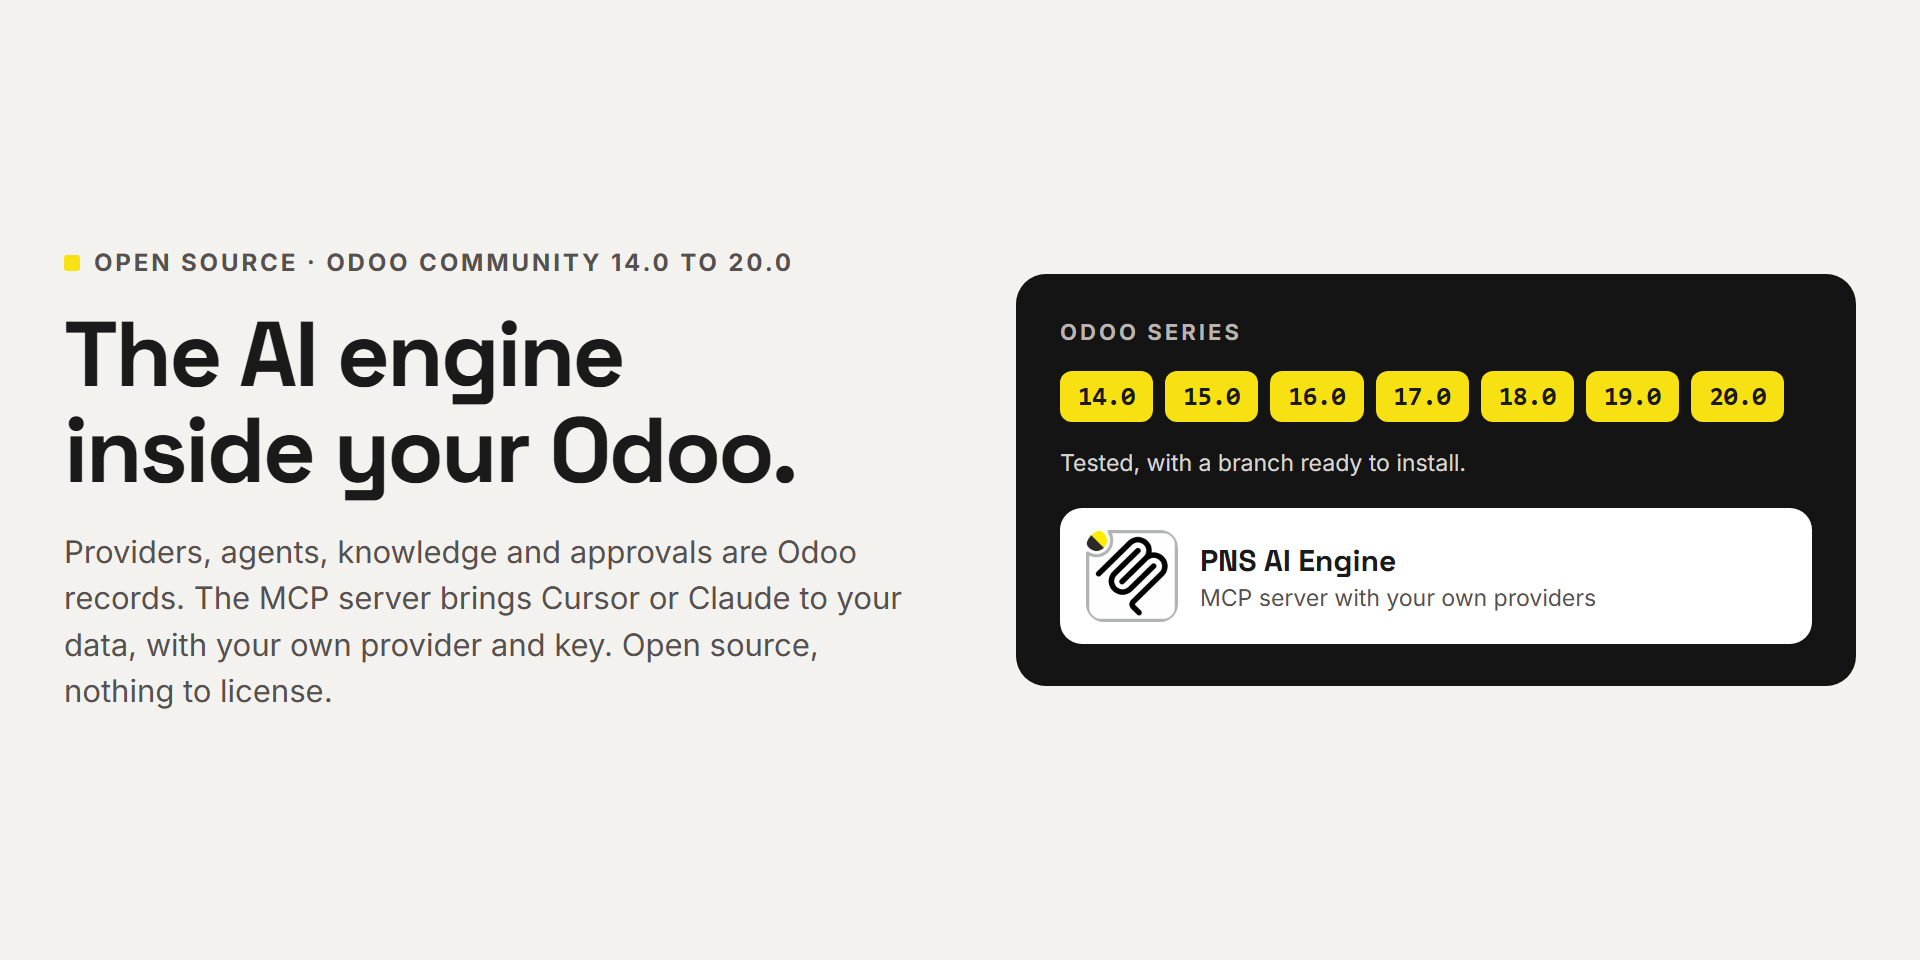
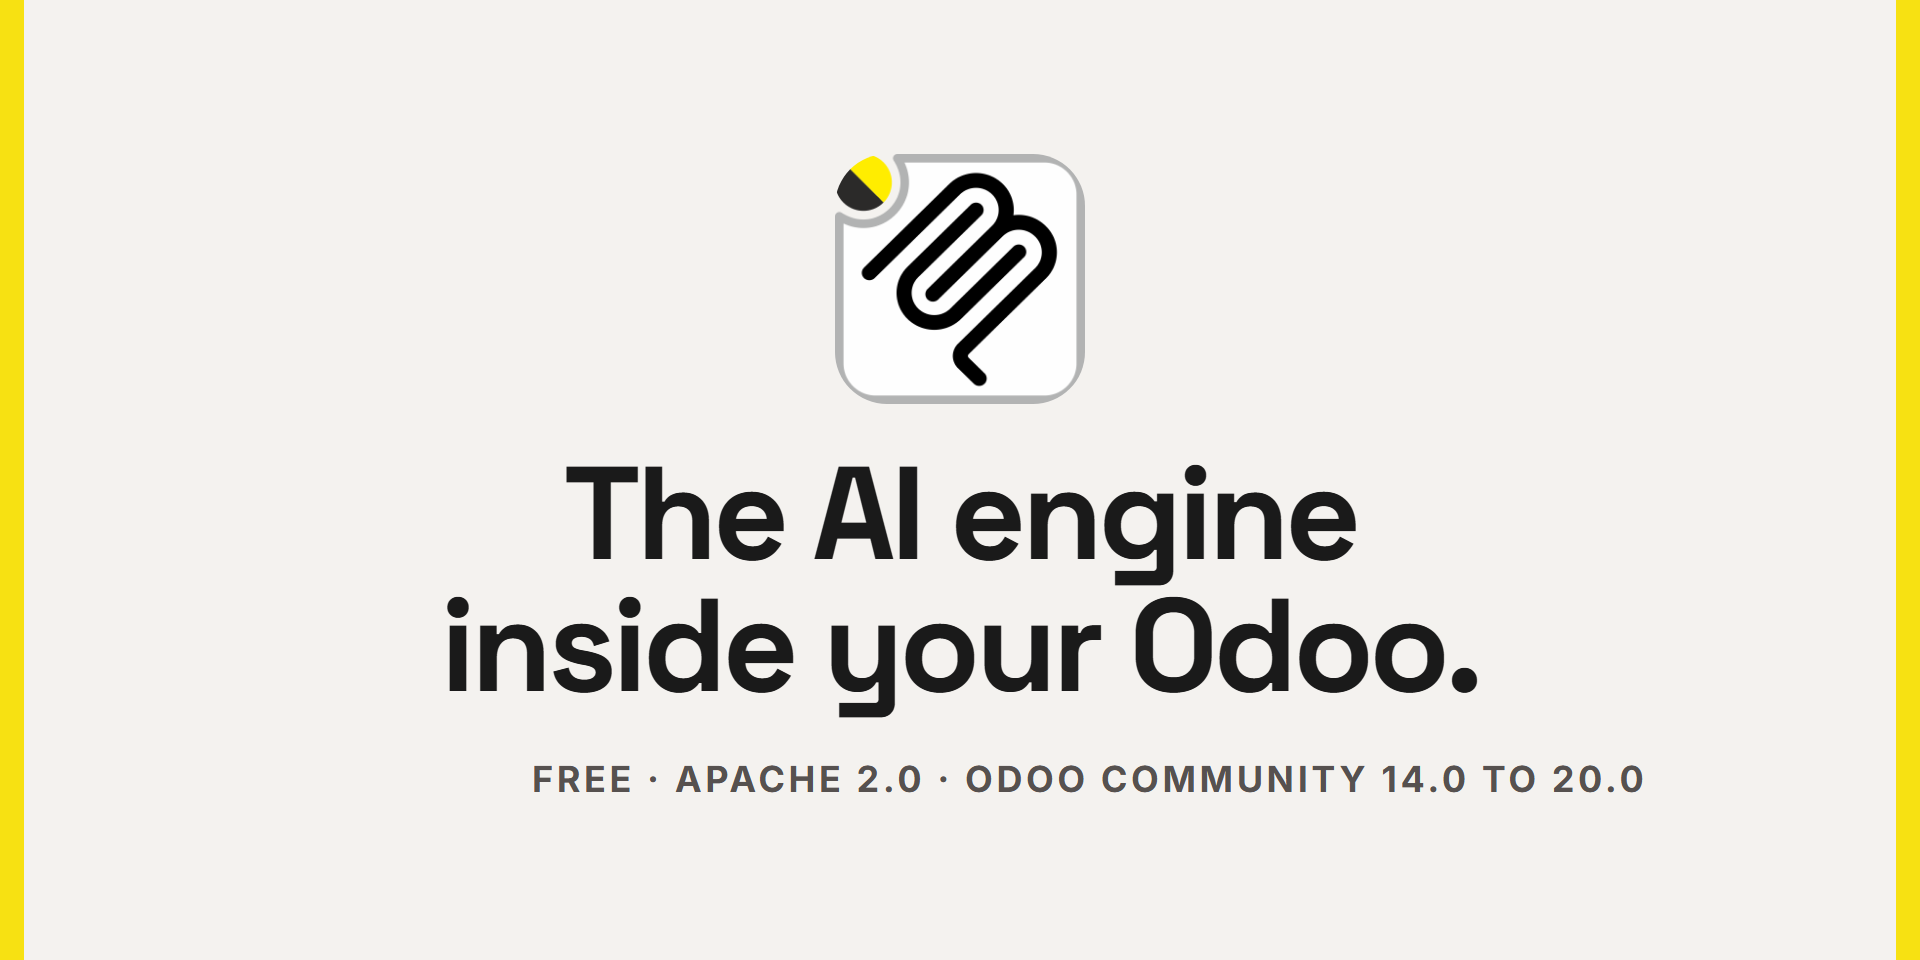
pns_ai_mcp owl1 3.1.980 · owl2 3.1.980 · owl3 3.1.980
Store listing only; the module code is the one of 3.1.979.

- The module is now named "PNS AI Engine — MCP Server", so the Odoo Apps card says what it is next to the other MCP servers.
- New Odoo Apps cover: icon, headline and one line of facts (free, Apache 2.0, Odoo Community 14.0 to 20.0). The previous cover carried a paragraph and the series chips, unreadable at the size of the store grid.

Changed region(s): [[0.0, 0.0, 1.0, 1.0], [0.4688, 0.7812, 0.875, 0.8438], [0.2812, 0.7812, 0.4688, 0.8438]]

diff --git a/stacks/owl1/pns_ai_mcp/__manifest__.py b/stacks/owl1/pns_ai_mcp/__manifest__.py
@@ -4,8 +4,8 @@
 # Odoo reads this file with ast.literal_eval — no module docstring before `{`.
 
 {
-    'name': 'PNS AI Engine',
-    'version': '3.1.979',
+    'name': 'PNS AI Engine — MCP Server',
+    'version': '3.1.980',
     'category': 'Extra Tools',
     'summary': 'Open-source AI engine and MCP server for Odoo Community 14 to 20: OpenAI, Claude, Ollama or any compatible model, read-only sandbox, every write approved by a person.',
     'description': """

diff --git a/stacks/owl2/pns_ai_mcp/__manifest__.py b/stacks/owl2/pns_ai_mcp/__manifest__.py
@@ -4,8 +4,8 @@
 # Odoo reads this file with ast.literal_eval — no module docstring before `{`.
 
 {
-    'name': 'PNS AI Engine',
-    'version': '3.1.979',
+    'name': 'PNS AI Engine — MCP Server',
+    'version': '3.1.980',
     'category': 'Extra Tools',
     'summary': 'Open-source AI engine and MCP server for Odoo Community 14 to 20: OpenAI, Claude, Ollama or any compatible model, read-only sandbox, every write approved by a person.',
     'description': """

diff --git a/stacks/owl3/pns_ai_mcp/__manifest__.py b/stacks/owl3/pns_ai_mcp/__manifest__.py
@@ -4,8 +4,8 @@
 # Odoo reads this file with ast.literal_eval — no module docstring before `{`.
 
 {
-    'name': 'PNS AI Engine',
-    'version': '3.1.979',
+    'name': 'PNS AI Engine — MCP Server',
+    'version': '3.1.980',
     'category': 'Extra Tools',
     'summary': 'Open-source AI engine and MCP server for Odoo Community 14 to 20: OpenAI, Claude, Ollama or any compatible model, read-only sandbox, every write approved by a person.',
     'description': """

diff --git a/stacks/owl1/pns_ai_mcp/__manifest_o15__.py b/stacks/owl1/pns_ai_mcp/__manifest_o15__.py
@@ -7,8 +7,8 @@
 # template to inherit. The rest matches __manifest__.py.
 
 {
-    'name': 'PNS AI Engine',
-    'version': '3.1.979',
+    'name': 'PNS AI Engine — MCP Server',
+    'version': '3.1.980',
     'category': 'Extra Tools',
     'summary': 'Open-source AI engine and MCP server for Odoo Community 14 to 20: OpenAI, Claude, Ollama or any compatible model, read-only sandbox, every write approved by a person.',
     'description': """

diff --git a/CHANGELOG.md b/CHANGELOG.md
@@ -2,6 +2,13 @@
 
 What changes for people who use this module, one section per published version, newest first. The heading is the git tag.
 
+## owl1-3.1.980_owl2-3.1.980_owl3-3.1.980 (2026-11-10)
+
+Store listing only; the module code is the one of 3.1.979.
+
+- The module is now named "PNS AI Engine — MCP Server", so the Odoo Apps card says what it is next to the other MCP servers.
+- New Odoo Apps cover: icon, headline and one line of facts (free, Apache 2.0, Odoo Community 14.0 to 20.0). The previous cover carried a paragraph and the series chips, unreadable at the size of the store grid.
+
 ## owl1-3.1.979_owl2-3.1.979_owl3-3.1.979 (2026-11-10)
 
 - A skill's result can be worked on in the next turn. After `/sales` (or any skill drawn on the server), "now for 2025" or "make a report with this data" used to find nothing: the skill left neither its rows nor its code in the session, and the chat even dropped the dataset of the turn before. The skill now leaves both, like any query does, with the same size cap. Works for the painted table and for the report mode.
